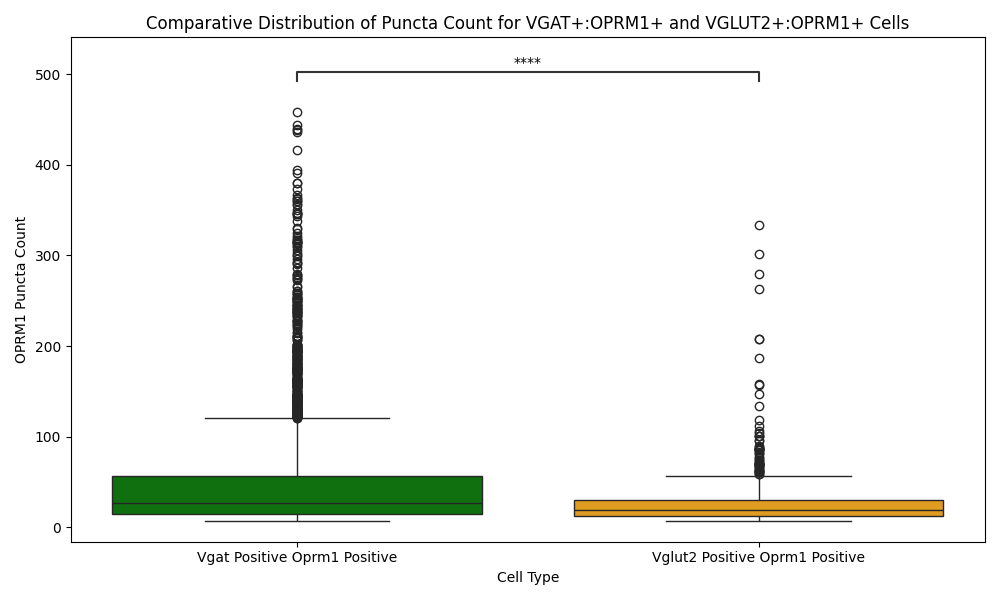
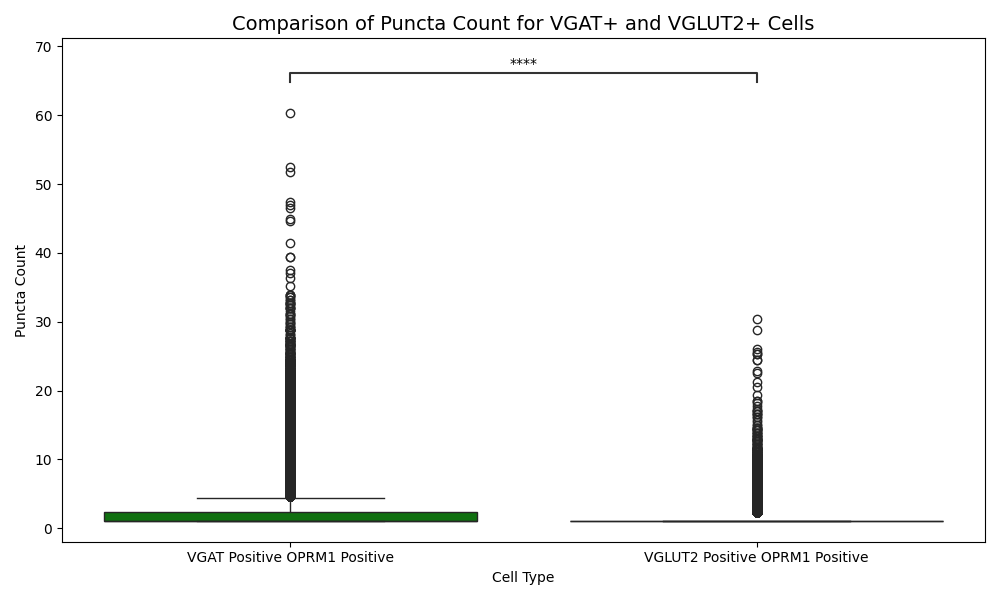
puncta plots vgat updated

diff --git a/ImageAnalysis/VentralPallidum_Pipeline/comparison_puncta_vgatvglut2oprm1_plots.py b/ImageAnalysis/VentralPallidum_Pipeline/comparison_puncta_vgatvglut2oprm1_plots.py
@@ -15,146 +15,115 @@ paths = {
     },
 }
 
-# Function to convert Windows paths to Unix-like paths if running in a Unix environment
-def convert_to_unix_path(win_path):
-    if os.name != "nt":
-        win_path = win_path.replace("\\", "/")
-        if win_path[1:3] == ":/":
-            return f"/mnt/{win_path[0].lower()}{win_path[2:]}"
-    return win_path
-
-# Convert all paths to Unix-like if necessary
-for group in paths:
-    paths[group] = {key: convert_to_unix_path(value) for key, value in paths[group].items()}
-
-# Create a "plots" directory in the same location as the script
+# Create a "plots" directory
 script_dir = os.path.dirname(os.path.abspath(__file__))
 plots_dir = os.path.join(script_dir, "oprm1VGATvsVGLUT2_plots_puncta")
 os.makedirs(plots_dir, exist_ok=True)
 
-# Define classifications and colors
-classifications = {
-    "vgat_positive_oprm1_positive": ["vgat_Pos: oprm1_Pos"],
-    "vglut2_positive_oprm1_positive": ["vglut2_Pos: oprm1_Pos"],
-}
-colors = {
-    "vgat_positive_oprm1_positive": "green",
-    "vglut2_positive_oprm1_positive": "orange",
+# Define Parent values
+cell_types = {
+    "vgat_positive_oprm1_positive": "Cell (vgat_Pos: oprm1_Pos)",
+    "vglut2_positive_oprm1_positive": "Cell (vglut2_Pos: oprm1_Pos)",
 }
 
-# Initialize a dictionary to collect data for each classification
-data = {key: [] for key in classifications.keys()}
+# Initialize a dictionary to collect data for each cell type
+data = {key: [] for key in cell_types.keys()}
 
-# Helper function to process files and extract relevant data
-def collect_data(paths, classification_key, labels):
-    for file in os.listdir(paths["raw_detection"]):
-        if file.endswith(".txt"):
-            try:
-                det_data = pd.read_csv(os.path.join(paths["raw_detection"], file), sep="\t", encoding="utf-8")
-                if "Classification" not in det_data.columns:
-                    print(f"Skipping file {file}: 'Classification' column is missing.")
-                    continue
-                cell_data = det_data[det_data["Classification"].isin(labels)]
-                data[classification_key].append(cell_data[[
-                    "AF568: Cell: Mean", 
-                    "Subcellular: Channel 2: Num spots estimated"
-                ]].dropna())
-            except UnicodeDecodeError:
-                print(f"Encoding error in file {file}: Skipping.")
-            except Exception as e:
-                print(f"Error processing {file}: {e}")
+# Function to collect data for each cell type
+def collect_data(group, cell_type_key, parent_value):
+    raw_detection_path = paths[group]["raw_detection"]
+    filelist = [f for f in os.listdir(raw_detection_path) if f.endswith(".txt") and not f.startswith("._")]
 
-# Collect data for each classification
-collect_data(paths["vgat"], "vgat_positive_oprm1_positive", classifications["vgat_positive_oprm1_positive"])
-collect_data(paths["vglut2"], "vglut2_positive_oprm1_positive", classifications["vglut2_positive_oprm1_positive"])
+    for file in filelist:
+        try:
+            det_data = pd.read_csv(os.path.join(raw_detection_path, file), sep="\t", encoding="utf-8")
 
-# Combine data for each classification into a single DataFrame
-for key in data:
-    if data[key]:
-        data[key] = pd.concat(data[key], ignore_index=True)
-    else:
-        data[key] = pd.DataFrame(columns=["AF568: Cell: Mean", "Subcellular: Channel 2: Num spots estimated"])
+            if "Parent" not in det_data.columns or "Num spots" not in det_data.columns:
+                print(f"Skipping file {file}: Required columns are missing.")
+                continue
 
-# Perform statistical tests between VGAT+ and VGLUT2+ groups
-vgat_data = data["vgat_positive_oprm1_positive"]
-vglut2_data = data["vglut2_positive_oprm1_positive"]
+            # Filter rows by Parent column for the specific cell type
+            filtered_data = det_data[det_data["Parent"] == parent_value]
+            if not filtered_data.empty:
+                data[cell_type_key].extend(filtered_data["Num spots"].dropna().tolist())
+            else:
+                print(f"No matching data in {file} for {parent_value}.")
+
+        except Exception as e:
+            print(f"Error processing file {file}: {e}")
+
+# Collect data for each cell type
+collect_data("vgat", "vgat_positive_oprm1_positive", cell_types["vgat_positive_oprm1_positive"])
+collect_data("vglut2", "vglut2_positive_oprm1_positive", cell_types["vglut2_positive_oprm1_positive"])
+
+# Perform statistical tests
+vgat_data = pd.Series(data["vgat_positive_oprm1_positive"])
+vglut2_data = pd.Series(data["vglut2_positive_oprm1_positive"])
 
 stat_results = {}
-
 if not vgat_data.empty and not vglut2_data.empty:
-    vgat_subcellularspots = vgat_data["Subcellular: Channel 2: Num spots estimated"]
-    vglut2_subcellularspots = vglut2_data["Subcellular: Channel 2: Num spots estimated"]
-
     # Mann-Whitney U Test
-    u_stat, u_p_value = mannwhitneyu(vgat_subcellularspots, vglut2_subcellularspots, alternative='two-sided')
+    u_stat, u_p_value = mannwhitneyu(vgat_data, vglut2_data, alternative='two-sided')
     stat_results["Mann-Whitney"] = (u_stat, u_p_value)
 
     # Kolmogorov-Smirnov Test
-    ks_stat, ks_p_value = ks_2samp(vgat_subcellularspots, vglut2_subcellularspots)
+    ks_stat, ks_p_value = ks_2samp(vgat_data, vglut2_data)
     stat_results["Kolmogorov-Smirnov"] = (ks_stat, ks_p_value)
 
-    # Save results to a text file
+    # Save statistical test results and descriptive stats to a text file
     stats_results_path = os.path.join(plots_dir, "statistical_tests_results.txt")
     with open(stats_results_path, "w") as f:
-        f.write("Statistical Test Results:\n")
+        f.write("Statistical Test Results and Distribution Statistics:\n")
+        f.write("=" * 50 + "\n\n")
+
+        # Statistical test results
         for test_name, (stat, p_val) in stat_results.items():
             f.write(f"{test_name}: Statistic = {stat}, p-value = {p_val}\n")
-    print(f"Statistical test results saved to {stats_results_path}")
+        f.write("\n")
 
-#comparisondata storage
-comparison_data = []
-for cell_type, df in data.items():
-    if not df.empty:
-        comparison_data.extend([{"Cell Type": cell_type.replace("_", " ").title(), "Puncta Count": val} for val in df["Subcellular: Channel 2: Num spots estimated"]])
+        # Descriptive statistics
+        for cell_type, values in data.items():
+            if values:
+                values_series = pd.Series(values)
+                f.write(f"Cell Type: {cell_type.replace('_', ' ').title()}\n")
+                f.write(f"  Total Cells: {len(values_series)}\n")
+                f.write(f"  Min Puncta Count: {values_series.min()}\n")
+                f.write(f"  Median Puncta Count: {values_series.median()}\n")
+                f.write(f"  Max Puncta Count: {values_series.max()}\n")
+                f.write(f"  Mean Puncta Count: {values_series.mean()}\n")
+                f.write(f"  25th Percentile (Q1): {values_series.quantile(0.25)}\n")
+                f.write(f"  75th Percentile (Q3): {values_series.quantile(0.75)}\n")
+                f.write(f"  Interquartile Range (IQR): {values_series.quantile(0.75) - values_series.quantile(0.25)}\n")
+                f.write("\n")
+    print(f"Statistical test results and stats saved to {stats_results_path}")
 
-if comparison_data:
-    comparison_df = pd.DataFrame(comparison_data)
-
-# # KDE Plot
-    # plt.figure(figsize=(10, 6))
-    # for cell_type, df in data.items():
-    #     if not df.empty:
-    #         sns.kdeplot(df["Subcellular: Channel 2: Num spots estimated"], label=cell_type.replace("_", ":").title(), color=colors[cell_type], fill=True, alpha=0.5)
-
-#     plt.title("Density Distribution of OPRM1 Subcellular Spots for VGAT+ and VGLUT2+ Cells", fontsize=16)
-#     plt.xlabel("OPRM1 Subcellular Spots")
-#     plt.ylabel("Density")
-#     plt.legend(title="Cell Type")
-#     plt.tight_layout()
-
-#     kde_path = os.path.join(plots_dir, "KDE_Comparison_VGAT_vs_VGLUT2.png")
-#     plt.savefig(kde_path)
-#     plt.close()
-#     print(f"KDE comparison plot saved to {kde_path}.")
-
-#boxplot
-# Define a formatted palette that matches the DataFrame's "Cell Type" column
+# Updated palette to match Cell Type labels
 formatted_colors = {
-    "Vgat Positive Oprm1 Positive": "green",
-    "Vglut2 Positive Oprm1 Positive": "orange",
+    "VGAT Positive OPRM1 Positive": "green",
+    "VGLUT2 Positive OPRM1 Positive": "orange",
 }
 
-# Box Plot with Statistical Annotation
-plt.figure(figsize=(10, 6))
-ax = sns.boxplot(
-    data=comparison_df,
-    x="Cell Type",
-    y="Puncta Count",
-    palette=formatted_colors  # Use the corrected palette
-)
+# Create box plot with annotations
+if not vgat_data.empty and not vglut2_data.empty:
+    comparison_data = pd.DataFrame({
+        "Cell Type": ["VGAT Positive OPRM1 Positive"] * len(vgat_data) + ["VGLUT2 Positive OPRM1 Positive"] * len(vglut2_data),
+        "Puncta Count": pd.concat([vgat_data, vglut2_data])
+    })
 
-# Annotator setup
-pairs = [("Vgat Positive Oprm1 Positive", "Vglut2 Positive Oprm1 Positive")]
-annotator = Annotator(ax, pairs, data=comparison_df, x="Cell Type", y="Puncta Count")
-annotator.set_pvalues([u_p_value])  # Use the Mann-Whitney U-test p-value
-annotator.annotate()
+    plt.figure(figsize=(10, 6))
+    ax = sns.boxplot(data=comparison_data, x="Cell Type", y="Puncta Count", palette=formatted_colors)
+    pairs = [("VGAT Positive OPRM1 Positive", "VGLUT2 Positive OPRM1 Positive")]
+    annotator = Annotator(ax, pairs, data=comparison_data, x="Cell Type", y="Puncta Count")
+    annotator.set_pvalues([u_p_value])
+    annotator.annotate()
 
-plt.title("Comparative Distribution of Puncta Count for VGAT+:OPRM1+ and VGLUT2+:OPRM1+ Cells", fontsize=12)
-plt.xlabel("Cell Type")
-plt.ylabel("OPRM1 Puncta Count")
-plt.tight_layout()
+    plt.title("Comparison of Puncta Count for VGAT+ and VGLUT2+ Cells", fontsize=14)
+    plt.xlabel("Cell Type")
+    plt.ylabel("Puncta Count")
+    plt.tight_layout()
 
-box_plot_path = os.path.join(plots_dir, "Box_Comparison_VGAT_vs_VGLUT2_with_annotations.png")
-plt.savefig(box_plot_path)
-plt.close()
-print(f"Box plot with statistical annotations saved to {box_plot_path}.")
+    box_plot_path = os.path.join(plots_dir, "Box_Comparison_VGAT_vs_VGLUT2_with_annotations.png")
+    plt.savefig(box_plot_path)
+    plt.close()
+
+    print(f"Box plot with annotations saved to {box_plot_path}.")

diff --git a/ImageAnalysis/VentralPallidum_Pipeline/vglut2_oprm1/vglut2_oprm1_txt_to_cell_analysis_withRNAmetrics_oprm1punctaplots.py b/ImageAnalysis/VentralPallidum_Pipeline/vglut2_oprm1/vglut2_oprm1_txt_to_cell_analysis_withRNAmetrics_oprm1punctaplots.py
@@ -5,7 +5,7 @@ import numpy as np
 
 # Define paths
 paths = {
-    "raw_detection": r"/Volumes/backup driv/VP_qp_LF - ITERATION4 - VGAT_OPRM1_COMPOSITE/detections_iteration4_vgatwithMu_12.13.24"
+    "raw_detection": r"/Volumes/backup driv/VP_qp_LF - ITERATION4 - vglut2_OPRM1_COMPOSITE/detections_iteration4_vglut2withMu_12.13.24"
 }
 
 # Create directory for plots
@@ -17,12 +17,12 @@ filelist = [f for f in os.listdir(paths["raw_detection"]) if f.endswith(".txt") 
 
 # Define corrected Parents and colors
 classifications = {
-    "vgat_positive_oprm1_negative": ["Cell (vgat_Pos: oprm1_Neg)"],
-    "vgat_positive_oprm1_positive": ["Cell (vgat_Pos: oprm1_Pos)"]
+    "vglut2_positive_oprm1_negative": ["Cell (vglut2_Pos: oprm1_Neg)"],
+    "vglut2_positive_oprm1_positive": ["Cell (vglut2_Pos: oprm1_Pos)"]
 }
 colors = {
-    "vgat_positive_oprm1_negative": "blue",
-    "vgat_positive_oprm1_positive": "green"
+    "vglut2_positive_oprm1_negative": "blue",
+    "vglut2_positive_oprm1_positive": "orange"
 }
 
 # Initialize data dictionary
@@ -63,8 +63,6 @@ for file in filelist:
     except Exception as e:
         print(f"Error processing {file}: {e}")
 
-
-
 # Generate plots
 for cell_type, values in subcellular_data.items():
     if values:
@@ -82,7 +80,7 @@ for cell_type, values in subcellular_data.items():
         plt.hist(values, bins=30, color=colors[cell_type], edgecolor="black", alpha=0.7)
         plt.title(f"Distribution of Puncta Counts for {cell_type.replace('_', ' ').title()}")
         plt.xlabel("Num Spots")
-        plt.xlim(0,30)
+        plt.xlim(0, 30)  # Set x-axis limits
         plt.ylabel("Frequency")
         plt.grid(True)
         plt.savefig(os.path.join(plots_dir, f"{cell_type}_histogram.png"))
@@ -96,7 +94,7 @@ for cell_type, values in subcellular_data.items():
         plt.plot(sorted_data, cdf, color=colors[cell_type])
         plt.title(f"CDF for {cell_type.replace('_', ' ').title()}")
         plt.xlabel("Num Spots")
-        plt.xlim(0,30)
+        plt.xlim(0, 30)  # Set x-axis limits
         plt.ylabel("Cumulative Probability")
         plt.grid(True)
         plt.savefig(os.path.join(plots_dir, f"{cell_type}_cdf.png"))
